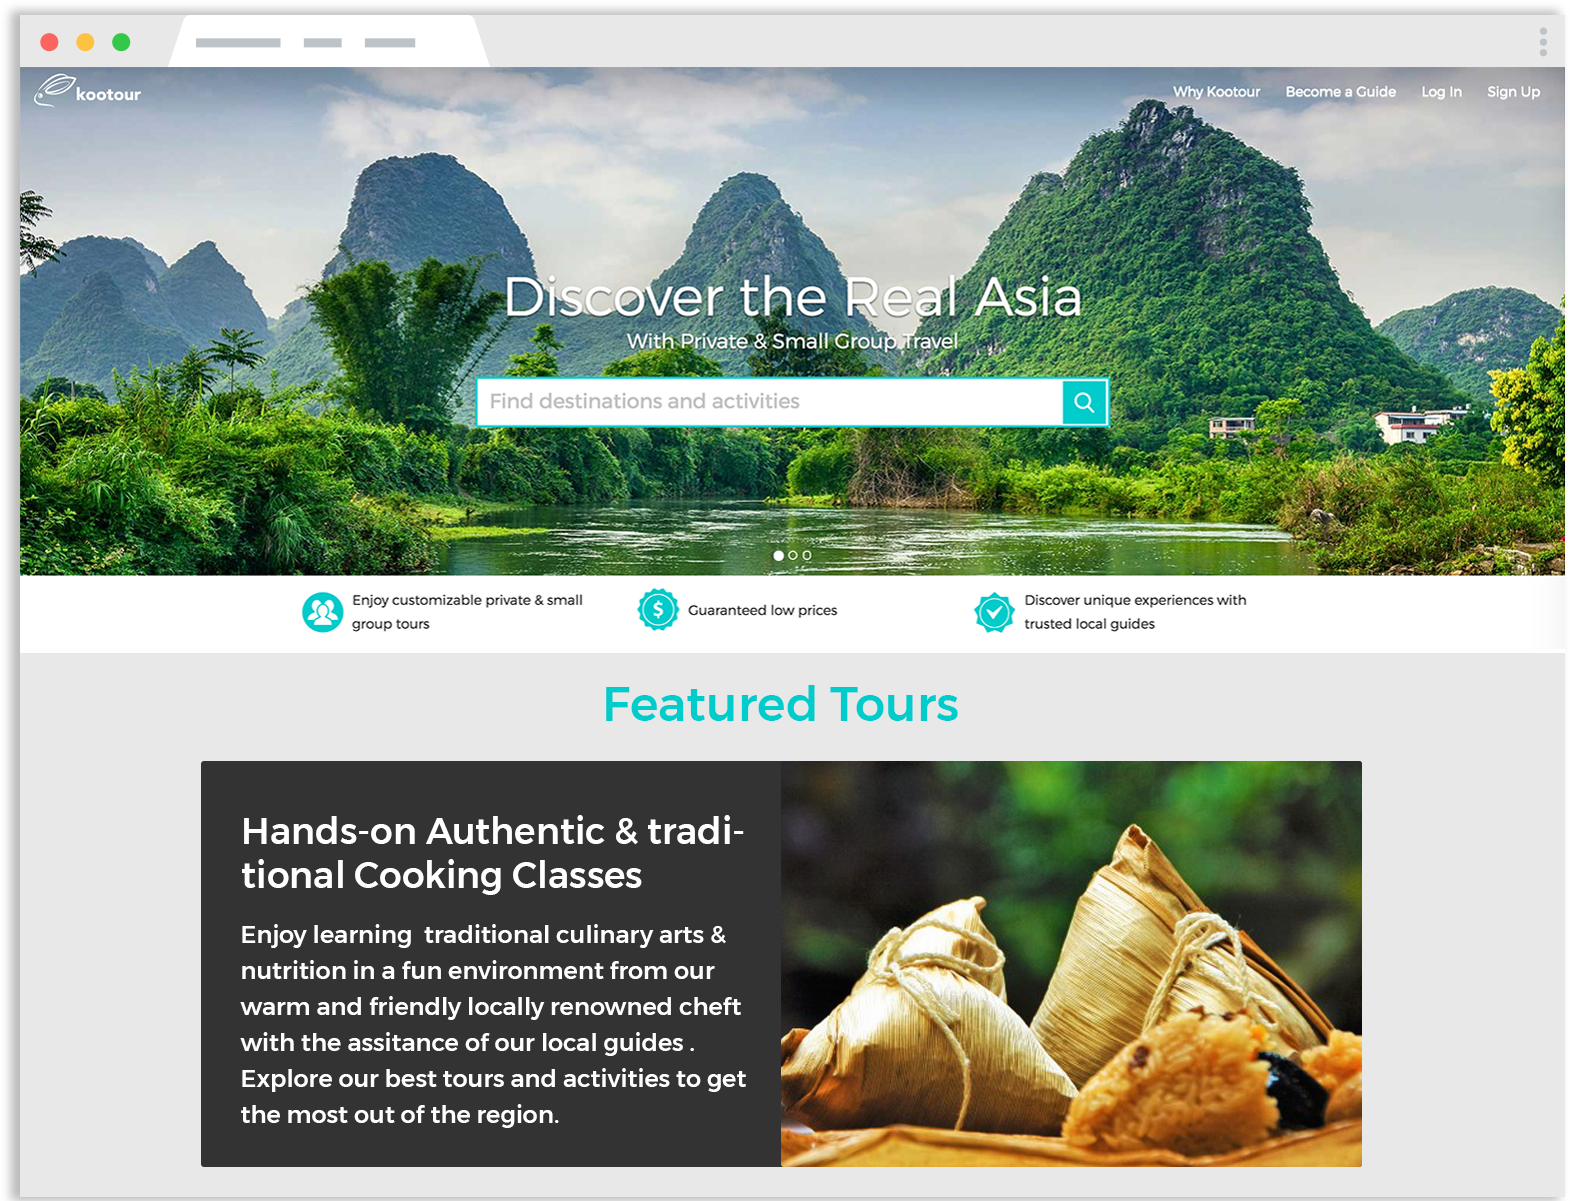
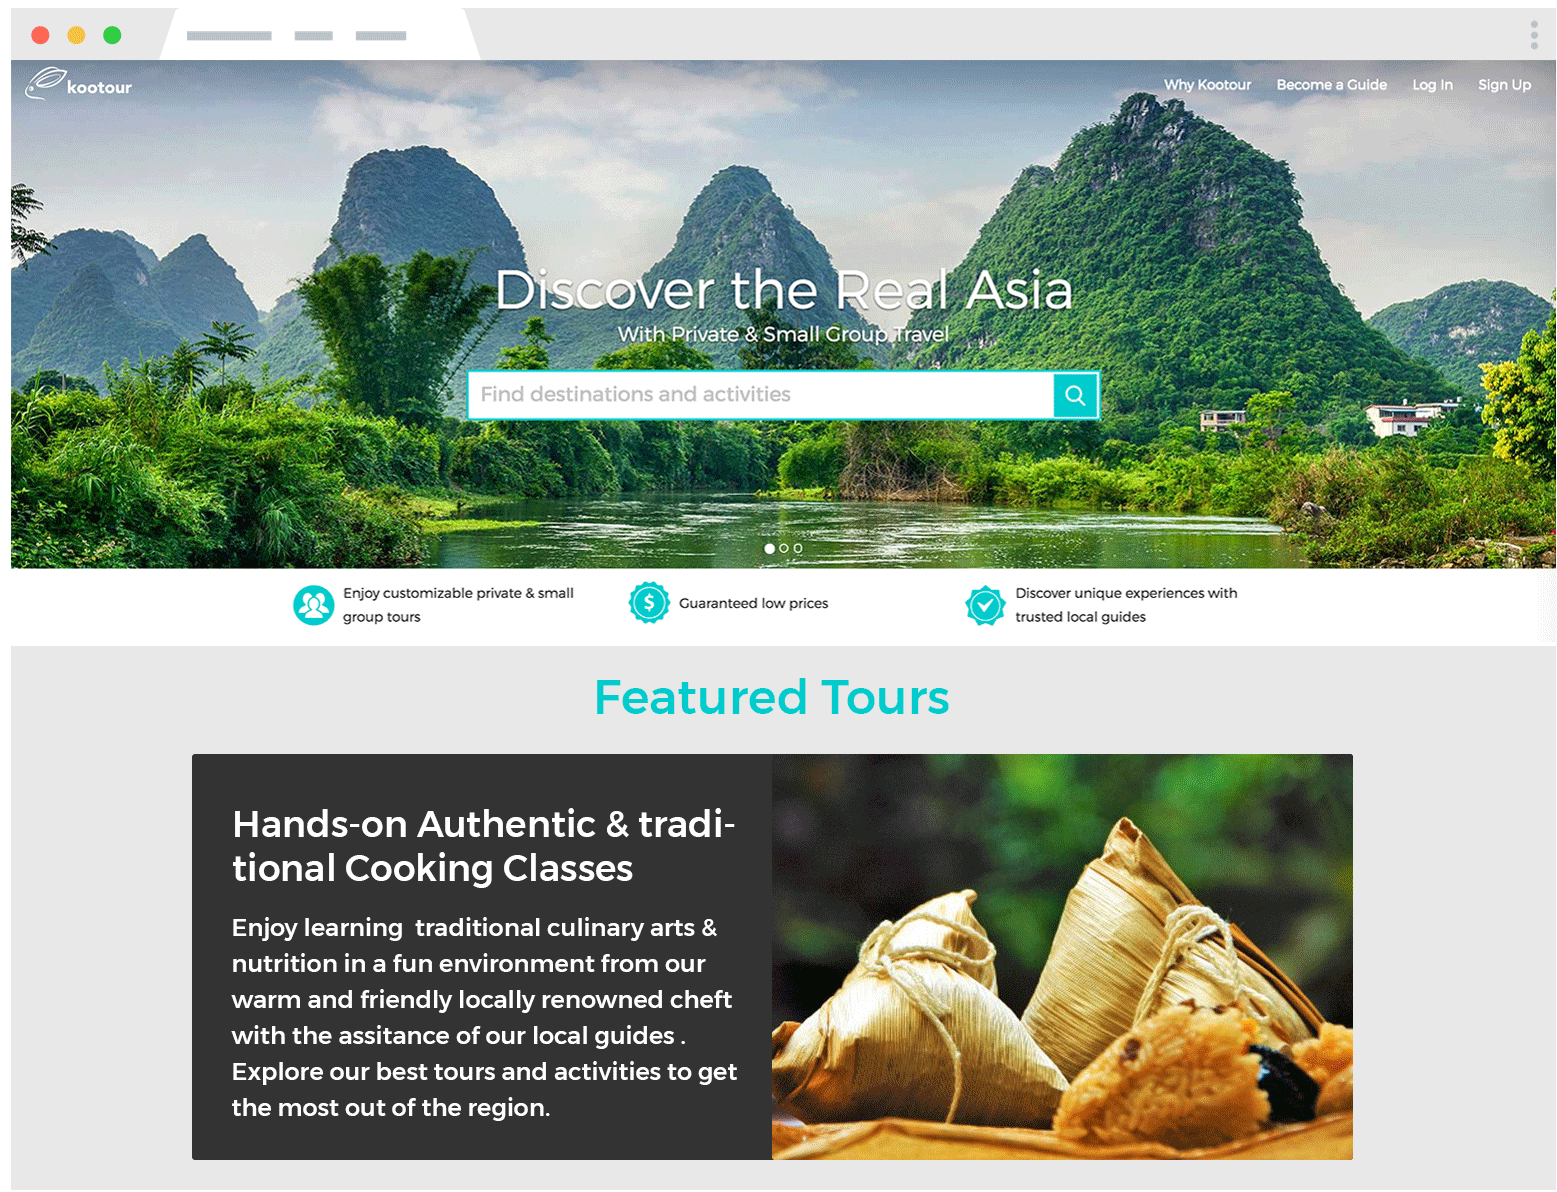
Project A Reiterate

Changed region(s): [[0.0, 0.0, 1.0, 1.0], [0.3699, 0.5587, 0.6166, 0.6518], [0.7707, 0.6208, 0.8015, 0.6518]]

diff --git a/projectA.html b/projectA.html
@@ -79,7 +79,7 @@
   <!-- Page Header -->
   <header class="masthead projectA-header">
         <div class="image-wrap">
-              <img class="img-fluid" src="img/kt-header.png">
+              <img class="img-fluid margin-top-100" src="img/kt-header.png">
         </div>
         <div>
           <div class="about-kt">
@@ -140,7 +140,7 @@
         <div class="row justify-content-center">
         
               <div class="col-lg-4 col-xs-12 img-fluid flex-center-h-v">
-                  <img src="img/card.png">
+                  <img class="max-width-75" src="img/card.png">
               </div> 
               <div class="col-lg-4 col-xs-12">
                   <p >
@@ -158,7 +158,7 @@
     </div>
     <div class="container">
       <div class="flex-center-h-v">
-        <img class="img-fluid" src="img/desktop-version-with-grid.png">
+        <img class="img-fluid max-width-75" src="img/desktop-version-with-grid.jpg">
       </div>
       <div>
                       <p>
@@ -184,7 +184,7 @@
     </div>
     <div class="container">
       <div class="flex-center-h-v">
-        <img class="img-fluid" src="img/kt-forms.png">
+        <img class="img-fluid max-width-75" src="img/kt-forms.png">
       </div>
     </div>
     <div class="flex-center-h-v">
@@ -192,7 +192,7 @@
     </div>
     <div class="container">
       <div class="flex-center-h-v">
-        <img class="img-fluid" src="img/kt-help@2x.png">
+        <img class="img-fluid max-width-75" src="img/kt-help@2x.png">
       </div>
     </div>
     <div class="flex-center-h-v">

diff --git a/scss/burmeseboyyo.scss b/scss/burmeseboyyo.scss
@@ -49,6 +49,12 @@
           .full-height{
           	height:100%;
           }
+          .max-width-75{
+          	max-width:75%;
+          }
+          .max-width-60{
+          	max-width:60%;
+          }
           .margin-15-t-b{
             margin: 15px 0 15px 0;
           }
@@ -57,6 +63,9 @@
           }
            .T-margin-30{
           	margin-top:30px;
+          }
+          .margin-top-100{
+          	margin-top:100px;
           }
           .B-margin{
           	margin-bottom:15px;
@@ -122,14 +131,16 @@
           }
 
 header.projectA-header{
-	.image-wrap{
+	.image-wrap img{
+		width:60%;
+
 		@media #{$bp-xs}{
-    			margin-top: 50px;
+    			width: 90%;
   				}
+  			}
 		
-	}
 	div{
-		background-color:$darkgray; 
+		background-color:$turquoise; 
 		width: 100%; 
 		display: inline-block;
 		text-align:center;

diff --git a/scss/clean-blog.css b/scss/clean-blog.css
@@ -372,6 +372,12 @@ h3 {
 .full-height {
   height: 100%; }
 
+.max-width-75 {
+  max-width: 75%; }
+
+.max-width-60 {
+  max-width: 60%; }
+
 .margin-15-t-b {
   margin: 15px 0 15px 0; }
 
@@ -380,6 +386,9 @@ h3 {
 
 .T-margin-30 {
   margin-top: 30px; }
+
+.margin-top-100 {
+  margin-top: 100px; }
 
 .B-margin {
   margin-bottom: 15px; }
@@ -439,11 +448,13 @@ h3 {
 .text-center {
   text-align: center; }
 
-@media (max-width: 576px) {
-  header.projectA-header .image-wrap {
-    margin-top: 50px; } }
+header.projectA-header .image-wrap img {
+  width: 60%; }
+  @media (max-width: 576px) {
+    header.projectA-header .image-wrap img {
+      width: 90%; } }
 header.projectA-header div {
-  background-color: #333333;
+  background-color: #00cccc;
   width: 100%;
   display: inline-block;
   text-align: center; }

diff --git a/scss/burmeseboyyo.css b/scss/burmeseboyyo.css
@@ -42,6 +42,12 @@ h3 {
 .full-height {
   height: 100%; }
 
+.max-width-75 {
+  max-width: 75%; }
+
+.max-width-60 {
+  max-width: 60%; }
+
 .margin-15-t-b {
   margin: 15px 0 15px 0; }
 
@@ -50,6 +56,9 @@ h3 {
 
 .T-margin-30 {
   margin-top: 30px; }
+
+.margin-top-100 {
+  margin-top: 100px; }
 
 .B-margin {
   margin-bottom: 15px; }
@@ -109,11 +118,13 @@ h3 {
 .text-center {
   text-align: center; }
 
-@media (max-width: 576px) {
-  header.projectA-header .image-wrap {
-    margin-top: 50px; } }
+header.projectA-header .image-wrap img {
+  width: 60%; }
+  @media (max-width: 576px) {
+    header.projectA-header .image-wrap img {
+      width: 90%; } }
 header.projectA-header div {
-  background-color: #333333;
+  background-color: #00cccc;
   width: 100%;
   display: inline-block;
   text-align: center; }
